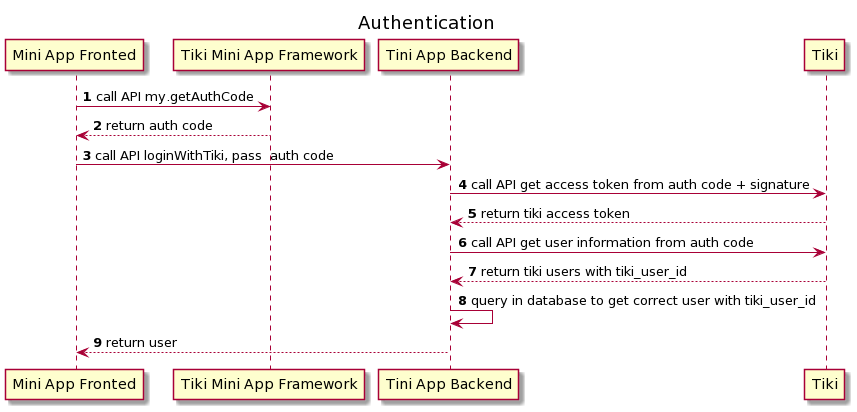
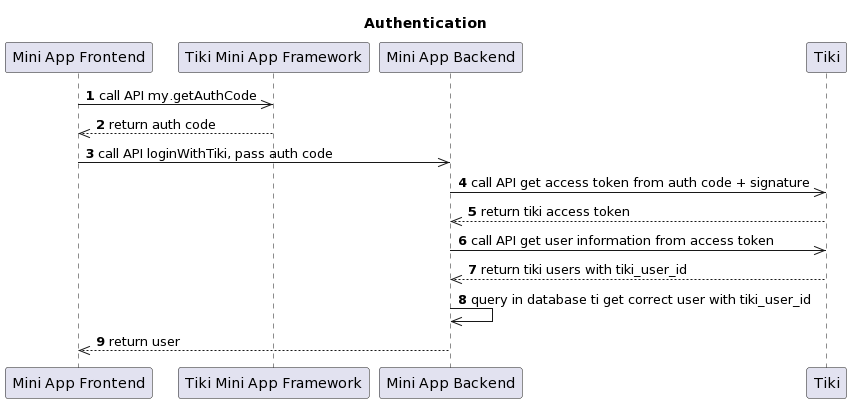
feat: update document payment, diagram image auth code

diff --git a/docs/backend-api/payment/flow.md b/docs/backend-api/payment/flow.md
@@ -14,13 +14,14 @@ description: sơ đồ xử lý đơn hàng đặt trên Tiki mini app
 4. Gọi [my.makePayment](/docs/api/open/make-payment) để phục vụ cho quá trình thanh toán cuả khách hàng.
 5. Sau khi khách thanh toán xong, Tiki sẽ gởi [thông báo] (ipn) đến đối tác.
 6. Backend của đối tác xác thực giao dịch và cập nhật dịch vụ cho khách hàng.
-7. Gọi Api hoàn thành đơn hàng hoặc hủy đơn hàng để kết thúc.
+7. Gọi API hoàn thành đơn hàng hoặc hủy đơn hàng để kết thúc (bắt buộc).
 8. Tiki thanh toán tiền cho đối tác trong trường hợp đơn hàng hoàn thành (giao hàng thành công).
 
 
 :::important Quan trọng
 
-Khi đối tác tạo đơn hàng phía Tiki, không nhất thiết nó phải bao gồm toàn bộ SKU mà đối tác nhận đặt từ khách hàng; chỉ cần gồm 1 hay vài SKU để dại diện thanh toán. Điểm mấu chốt là giá trị đơn hàng phải chính xác.
+1. Khi đối tác tạo đơn hàng phía Tiki, không nhất thiết nó phải bao gồm toàn bộ SKU mà đối tác nhận đặt từ khách hàng; chỉ cần gồm 1 hay vài SKU để dại diện thanh toán. Điểm mấu chốt là giá trị đơn hàng phải chính xác.
+2. Sau khi giao hàng thành công, phía đối tác có trách nhiệm phải gọi API để hoàn thành đơn hàng (completed) thì Tiki mới thanh toán tiền về phía đối tác.
 
 :::
 

diff --git a/docs/backend-api/payment/order-status.md b/docs/backend-api/payment/order-status.md
@@ -19,6 +19,7 @@ title: Trạng thái đơn hàng
 - Chỉ những đơn hàng có trạng thái 'completed' Tiki mới giải ngân tiền thanh toán của khách hàng cho đối tác.
 - Trong trường hợp khách hàng thanh toán trực tuyến, một khi nhận được API cancel từ đối tác thì Tiki sẽ xử lý việc hoàn tiền cho khách hàng. Và đối tác không cần làm thêm gì nữa.  
 - Đơn hàng đã có trạng thái 'completed' thì không thể chuyển về trạng thái 'canceled' và hoàn tiền cho khách hàng.
+- Đơn hàng đã có trạng thái 'completed' hoặc 'cancled' thì không thể đổi được sang trạng thái khác.
 :::
 
 
